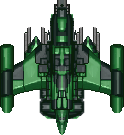
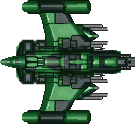
Added ship movement, with wall wrapping

diff --git a/hw4_astroids/scripts/objects/player/player.js b/hw4_astroids/scripts/objects/player/player.js
@@ -7,6 +7,7 @@
 //  coords: {x: int, y: int} ,
 //  imageSrc: ,
 //  maxSpeed: ,
+//  accelleration: ,
 //  velocities: {x: float, y: float},
 //  rotation: 45 initially,
 //  size: in pixels
@@ -26,11 +27,46 @@ Asteroids.objects.player.Player = function (spec) {
         this.isReady = true;
     };
 
-    let turnSpeed = 150; // not sure what unit yet
+    let turnSpeed = 200; // not sure what unit yet
+
+    function playerMoveLocation(elapsedTime) {
+        // TODO: Add function here to move the player in a direction
+        let dx = spec.velocities.x * elapsedTime / 1000;
+        let dy = spec.velocities.y * elapsedTime / 1000;
+        spec.coords.x += dx;
+        spec.coords.y += dy;
+
+        // wrap around coords
+        if (spec.coords.x > spec.boardSize) {
+            spec.coords.x = 0;
+        }
+        else if (spec.coords.x < 0) {
+            spec.coords.x = spec.boardSize;
+        }
+
+        if (spec.coords.y > spec.boardSize) {
+            spec.coords.y = 0;
+        }
+        else if (spec.coords.y < 0) {
+            spec.coords.y = spec.boardSize;
+        }
+        // console.log('player coords: ', spec.coords);
+        // console.log('dX:', dx, 'dY:', dy);
+
+    }
 
     function playerThrust(elapsedTime) {
-        // TODO: Add function here to move the player in a direction
-
+        console.log('old velocity: ', spec.velocities);
+        let newXVel = (spec.velocities.x + spec.acceleration * 100) * (Math.cos(spec.rotation) / 180);
+        let newYVel = (spec.velocities.y + spec.acceleration * 100) * (Math.sin(spec.rotation) / 180);
+        // check for max velocity
+        console.log('max speed', spec.maxSpeed)
+        if (Math.abs(newXVel) < spec.maxSpeed && Math.abs(newYVel) < spec.maxSpeed) {
+            console.log('accelerating');
+            spec.velocities.x += newXVel;
+            spec.velocities.y += newYVel;
+        }
+        console.log('new velocity: ', spec.velocities);
     }
 
     function turnPlayerLeft(elapsedTime) {
@@ -50,9 +86,10 @@ Asteroids.objects.player.Player = function (spec) {
         get coords() { return spec.coords },
         get size() { return spec.size },
         get rotation() { return spec.rotation },
-        playerThrust: playerThrust,
+        playerMoveLocation: playerMoveLocation,
         turnPlayerLeft: turnPlayerLeft,
         turnPlayerRight: turnPlayerRight,
+        playerThrust: playerThrust,
     };
 
     return api;

diff --git a/hw4_astroids/scripts/game.js b/hw4_astroids/scripts/game.js
@@ -11,9 +11,11 @@ Asteroids.main = (function (myGraphics, input, player, renderer) {
     let myPlayer = player.Player({
         coords: { x: boardDim / 2, y: boardDim / 2 },
         imageSrc: './assets/1B.png',
-        maxSpeed: 40, // pixels per second
+        maxSpeed: 5, // pixels per second
+        acceleration: 5,
         velocities: { x: 0, y: 0 },
-        rotation: 0,
+        rotation: -Math.PI/2,
+        boardSize: boardDim,
         size: 40,
     });
 
@@ -22,6 +24,7 @@ Asteroids.main = (function (myGraphics, input, player, renderer) {
     }
 
     function update(elapsedTime) {
+        myPlayer.playerMoveLocation(elapsedTime);
     }
 
     function render() {
@@ -46,7 +49,7 @@ Asteroids.main = (function (myGraphics, input, player, renderer) {
 
     function registerKeyEvents() {
         // Register Arrow keys
-        // myKeyboard.register('ArrowDown', myPlayer.moveDown);
+        myKeyboard.register('ArrowUp', myPlayer.playerThrust);
         // myKeyboard.register('ArrowUp', myPlayer.moveUp);
         myKeyboard.register('ArrowLeft', myPlayer.turnPlayerLeft);
         myKeyboard.register('ArrowRight', myPlayer.turnPlayerRight);

diff --git a/hw4_astroids/scripts/render/renderPlayer.js b/hw4_astroids/scripts/render/renderPlayer.js
@@ -4,7 +4,7 @@ Asteroids.render.Player = (function (graphics) {
     //drawTexture(image, center, rotation, size)
 
     function renderPlayer(player) {
-        let scale = 0.75
+        let scale = 1
         let center = {
             x: player.coords.x + (player.size / 2),
             y: player.coords.y + (player.size / 2),
